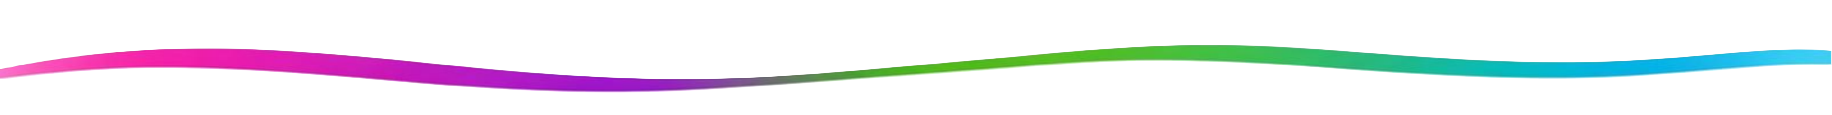
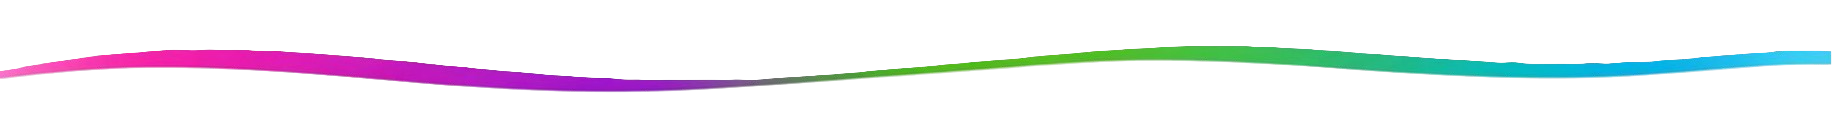
Added graphics and FAQs

diff --git a/faqs.html b/faqs.html
@@ -36,7 +36,7 @@
 			</div>
 			<details class="tf-faq">
 				<summary>Is this a multi vitamin?</summary>
-				<p>No, the is GMO free, Vegan, Whole food nutrition.</p>
+				<p>No, the products are GMO free, Vegan, Whole food nutrition.</p>
 			</details>
 			<details class="tf-faq">
 				<summary>How can we get involved?</summary>
@@ -54,10 +54,48 @@
 				<summary>Where can I find product information?</summary>
 				<p>See the nutrition and research page.</p>
 			</details>
+			
+			<details class="tf-faq">
+				<summary>Are the products organic?</summary>
+				<p>We use organically grown fruits and vegetables whenever possible, provided they meet out strict quality standards. However, because organic sourcing is not always available at the level of quality we require, our products are not certified organic.</p>
+			</details>
+			
+			<details class="tf-faq">
+				<summary>Are the products vegan?</summary>
+				<p>The capsules and chewables, as sold, are suitable for a vegan diet</p>
+			</details>
+			
+			<details class="tf-faq">
+				<summary>Can I consume the products if I have an intolerance to gluten?</summary>
+				<p>We can confirm that all the products are gluten-free, containing gluten at levels below 20ppm, in accordance with EU Regulations on this subject.</p>
+			</details>
+			
+			<details class="tf-faq">
+				<summary>Can I consume the  products if I have an intolerance to lactose?</summary>
+				<p>The products are lactose-free.</p>
+			</details>
+			
+			<details class="tf-faq">
+				<summary>Can I consume the products if I have allergies or intolerances?</summary>
+				<p>If there are specific ingredients that you need to avoid due to your allergy or intolerance, please take a look at our product labels (available on our website) to check whether they are present in our products.  Ingredients that are considered common allergens under EU food law are highlighted in bold, but please do check the ingredients list carefully for any ingredient that is of concern to you with your specific allergy/intolerance.
+				<br>
+				If you have any concerns about the suitability of a food for you, due to allergies or other medical conditions, please always take a copy of the product information/label and discuss the matter with your doctor or other healthcare professional.</p>
+			</details>
+			
+			<details class="tf-faq">
+				<summary>Do the products contain any synthetic ingredients</summary>
+				<p>Our products are developed with a focus on minimally processed, plant-based, whole-food ingredients. We aim, where possible, to use ingredients that are minimally processed and sourced from nature, within all other legal requirements.
+				products are free of: <br>
+					&bull; Preservatives<br>
+					&bull; Synthetic colourings<br>
+					&bull; Chemical stabilisers<br>
+					&bull; GMO ingredients
+				</p>
+			</details>
 
 			<details class="tf-faq">
 				<summary>How does ordering work?</summary>
-				<p>A simple repeat ordering system that gets delivered directly to your organisation.</p>
+				<p>A simple repeat ordering system that gets delivered directly to your organisation. Te health crew will get you started and will be at the end of the phone if you have any issues. We will also do scheduled follow up calls to ensure all is going smoothly.</p>
 			</details>
 
 		</div>
@@ -65,18 +103,24 @@
 
 	<div class="product-gallery">
 
-	<img src="images/Chew/Chewables2.png" alt="Fruit Blend soft chewables with fresh fruit">
-	<img src="images/Chew/Chewables3.png" alt="Vegetable Blend soft chewables with fresh vegetables">
+		<img src="images/Chew/Chewables2.png" alt="Fruit Blend soft chewables with fresh fruit">
+		<img src="images/Chew/Chewables3.png" alt="Vegetable Blend soft chewables with fresh vegetables">
 
-	<img src="images/Caps/Caps2.png" alt="Fruit Blend capsules and tub with fresh fruit">
-	<img src="images/Caps/Caps3.png" alt="Vegetable Blend capsules and tub with fresh vegetables">
+		<img src="images/Caps/Caps2.png" alt="Fruit Blend capsules and tub with fresh fruit">
+		<img src="images/Caps/Caps3.png" alt="Vegetable Blend capsules and tub with fresh vegetables">
 
-</div>
+	</div>
 
 	<a href="mailto:info@healthystartsforschools.co.uk" class="email-btn">
 	Contact Us By Email
 	</a>
-
+<!--
+<p>
+<div class="research-image">
+		<img src="images/raspberries-chewies-115.png" alt="Fruit Blend soft chewables with fresh fruit"><br>
+		<img src="images/apples-chewies-115.png" alt="Vegetable Blend soft chewables with fresh vegetables">
+	</div>
+</p>-->
 </section>
 
 <div id="footer"></div>

diff --git a/index.html b/index.html
@@ -52,18 +52,7 @@
 		<img src="images/kids-parents-picture.png" alt="Kids Parents Picture">
 	</div>
 </section>
-<!--
-    <h1>Healthy Starts For Schools</h1>
-    <p>
-        Supporting healthier eating, healthier lifestyles and wellbeing
-        in schools and communities.
-    </p>
 
-    <a href="mailto:info@healthystartsforschools.co.uk"
-       class="email-btn">
-       Contact Us By Email
-    </a>
--->
 <section class="mission-banner">
 
 	<img class="mission-fruit mission-fruit-left" src="images/mission-blueberries.png" alt="" aria-hidden="true">
@@ -90,6 +79,15 @@ We want to give the next generations across the UK a healthier start in life.
 	<img class="mission-fruit mission-fruit-right" src="images/mission-apple.png" alt="" aria-hidden="true">
 
 </section>
+
+<div>
+	<p class="mission-banner">
+		<img class="fp-photo" src="images/caps-chewies-ingredients-left.png" alt="" aria-hidden="true">
+		<img class="fp-photo" src="images/caps-chewies-ingredients-center.png" alt="" aria-hidden="true">
+		<img class="fp-photo" src="images/caps-chewies-ingredients-right.png" alt="" aria-hidden="true">
+	</p>
+</div>
+
 
 <section class="hiw">
 
@@ -202,7 +200,7 @@ We want to give the next generations across the UK a healthier start in life.
 		</div>
 		<details class="tf-faq">
 			<summary>Is this a multi vitamin?</summary>
-			<p>No, the is GMO free, Vegan, Whole food nutrition.</p>
+			<p>No, the products are GMO free, Vegan, Whole food nutrition.</p>
 		</details>
 		<details class="tf-faq">
 			<summary>How can we get involved?</summary>

diff --git a/nutritionresearchmore.html b/nutritionresearchmore.html
@@ -55,6 +55,7 @@
 	<img src="images/Caps/Caps3.png" alt="" aria-hidden="true">
 	<img src="images/Caps/Caps-veg.png" alt="" aria-hidden="true">
 </div>
+	<img class="width90pc" src="images/squiggly.png" alt="" aria-hidden="true">
 <h1>The Research</h1>
 	<img class="clinicalresearch" src="images/research/CR-00.png" alt="" aria-hidden="true">
 	<img class="clinicalresearch" src="images/research/CR-01.jpg" alt="" aria-hidden="true">

diff --git a/howitworks.html b/howitworks.html
@@ -84,6 +84,7 @@
 	</div>
 
 </div>
+<img class="clinicalresearch" src="images/caps-chewies-ingredients.png" alt="" aria-hidden="true">
 <img class="clinicalresearch" src="images/research/GN-01.jpg" alt="" aria-hidden="true">
 <img class="clinicalresearch" src="images/research/HS-001.jpg" alt="" aria-hidden="true">
 <img class="clinicalresearch" src="images/research/what-the-survey-says.png" alt="" aria-hidden="true">

diff --git a/css/style.css b/css/style.css
@@ -1123,7 +1123,9 @@ footer{
 .header-container{
     gap:20px;
 }
-
+.width90pc{
+	width:90%
+}
 .nav-links{
     align-items:center;                 /* centres 1-line and 2-line links on the same midline */
     gap:clamp(14px, 1.8vw, 28px);
